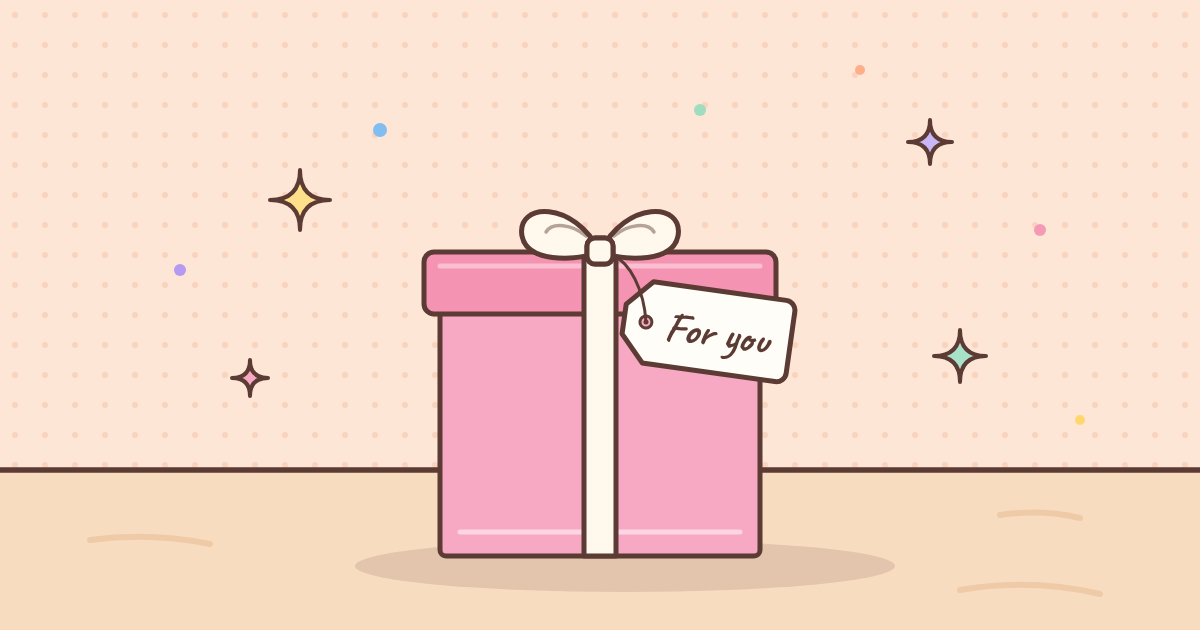
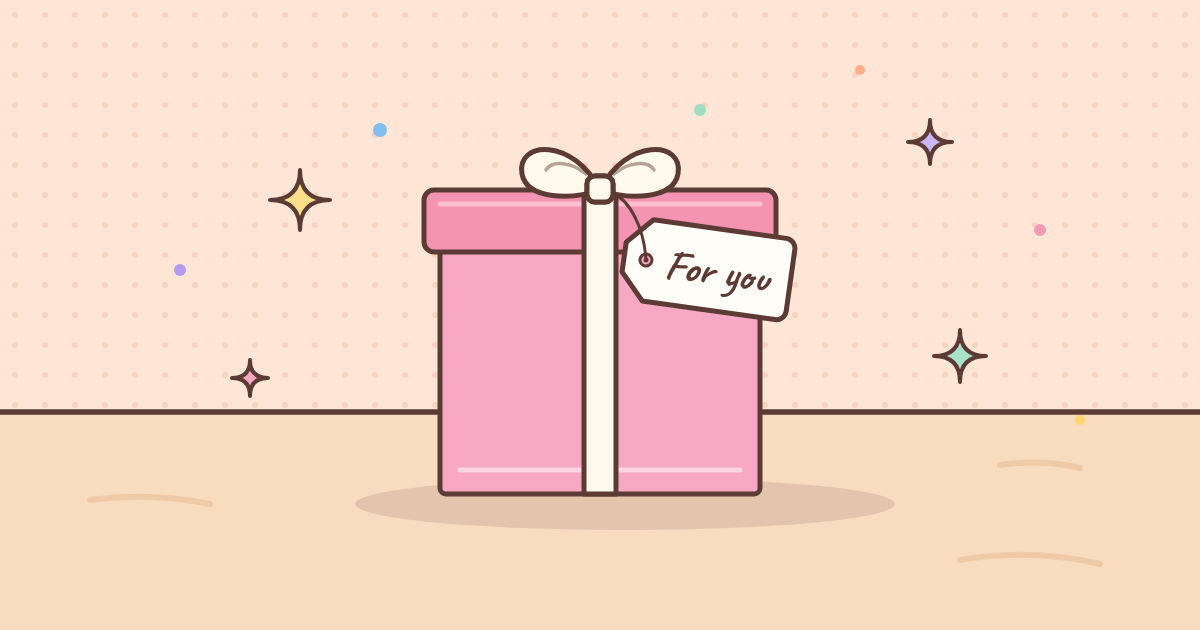
Center the gift box in the link preview
Claude-Session: https://claude.ai/code/session_01SHGsLLNNi1oHuf28yaPjhL

diff --git a/index.html b/index.html
@@ -9,13 +9,13 @@
 <meta property="og:site_name" content="Cake Maker">
 <meta property="og:title" content="Someone made you a cake! 🎂">
 <meta property="og:description" content="Open it to see what’s inside, then decorate a cake of your own.">
-<meta property="og:image" content="https://madisonoconn.github.io/cake-maker/preview.png">
+<meta property="og:image" content="https://madisonoconn.github.io/cake-maker/preview.png?v=2">
 <meta property="og:image:width" content="1200">
 <meta property="og:image:height" content="630">
 <meta property="og:image:alt" content="A pink cake box tied with a ribbon and a gift tag that says For you">
 <meta name="twitter:card" content="summary_large_image">
 <meta name="twitter:title" content="Someone made you a cake! 🎂">
-<meta name="twitter:image" content="https://madisonoconn.github.io/cake-maker/preview.png">
+<meta name="twitter:image" content="https://madisonoconn.github.io/cake-maker/preview.png?v=2">
 <meta name="theme-color" content="#fde6d6">
 <link rel="icon" href="favicon.svg" type="image/svg+xml">
 <link rel="apple-touch-icon" href="apple-touch-icon.png">
